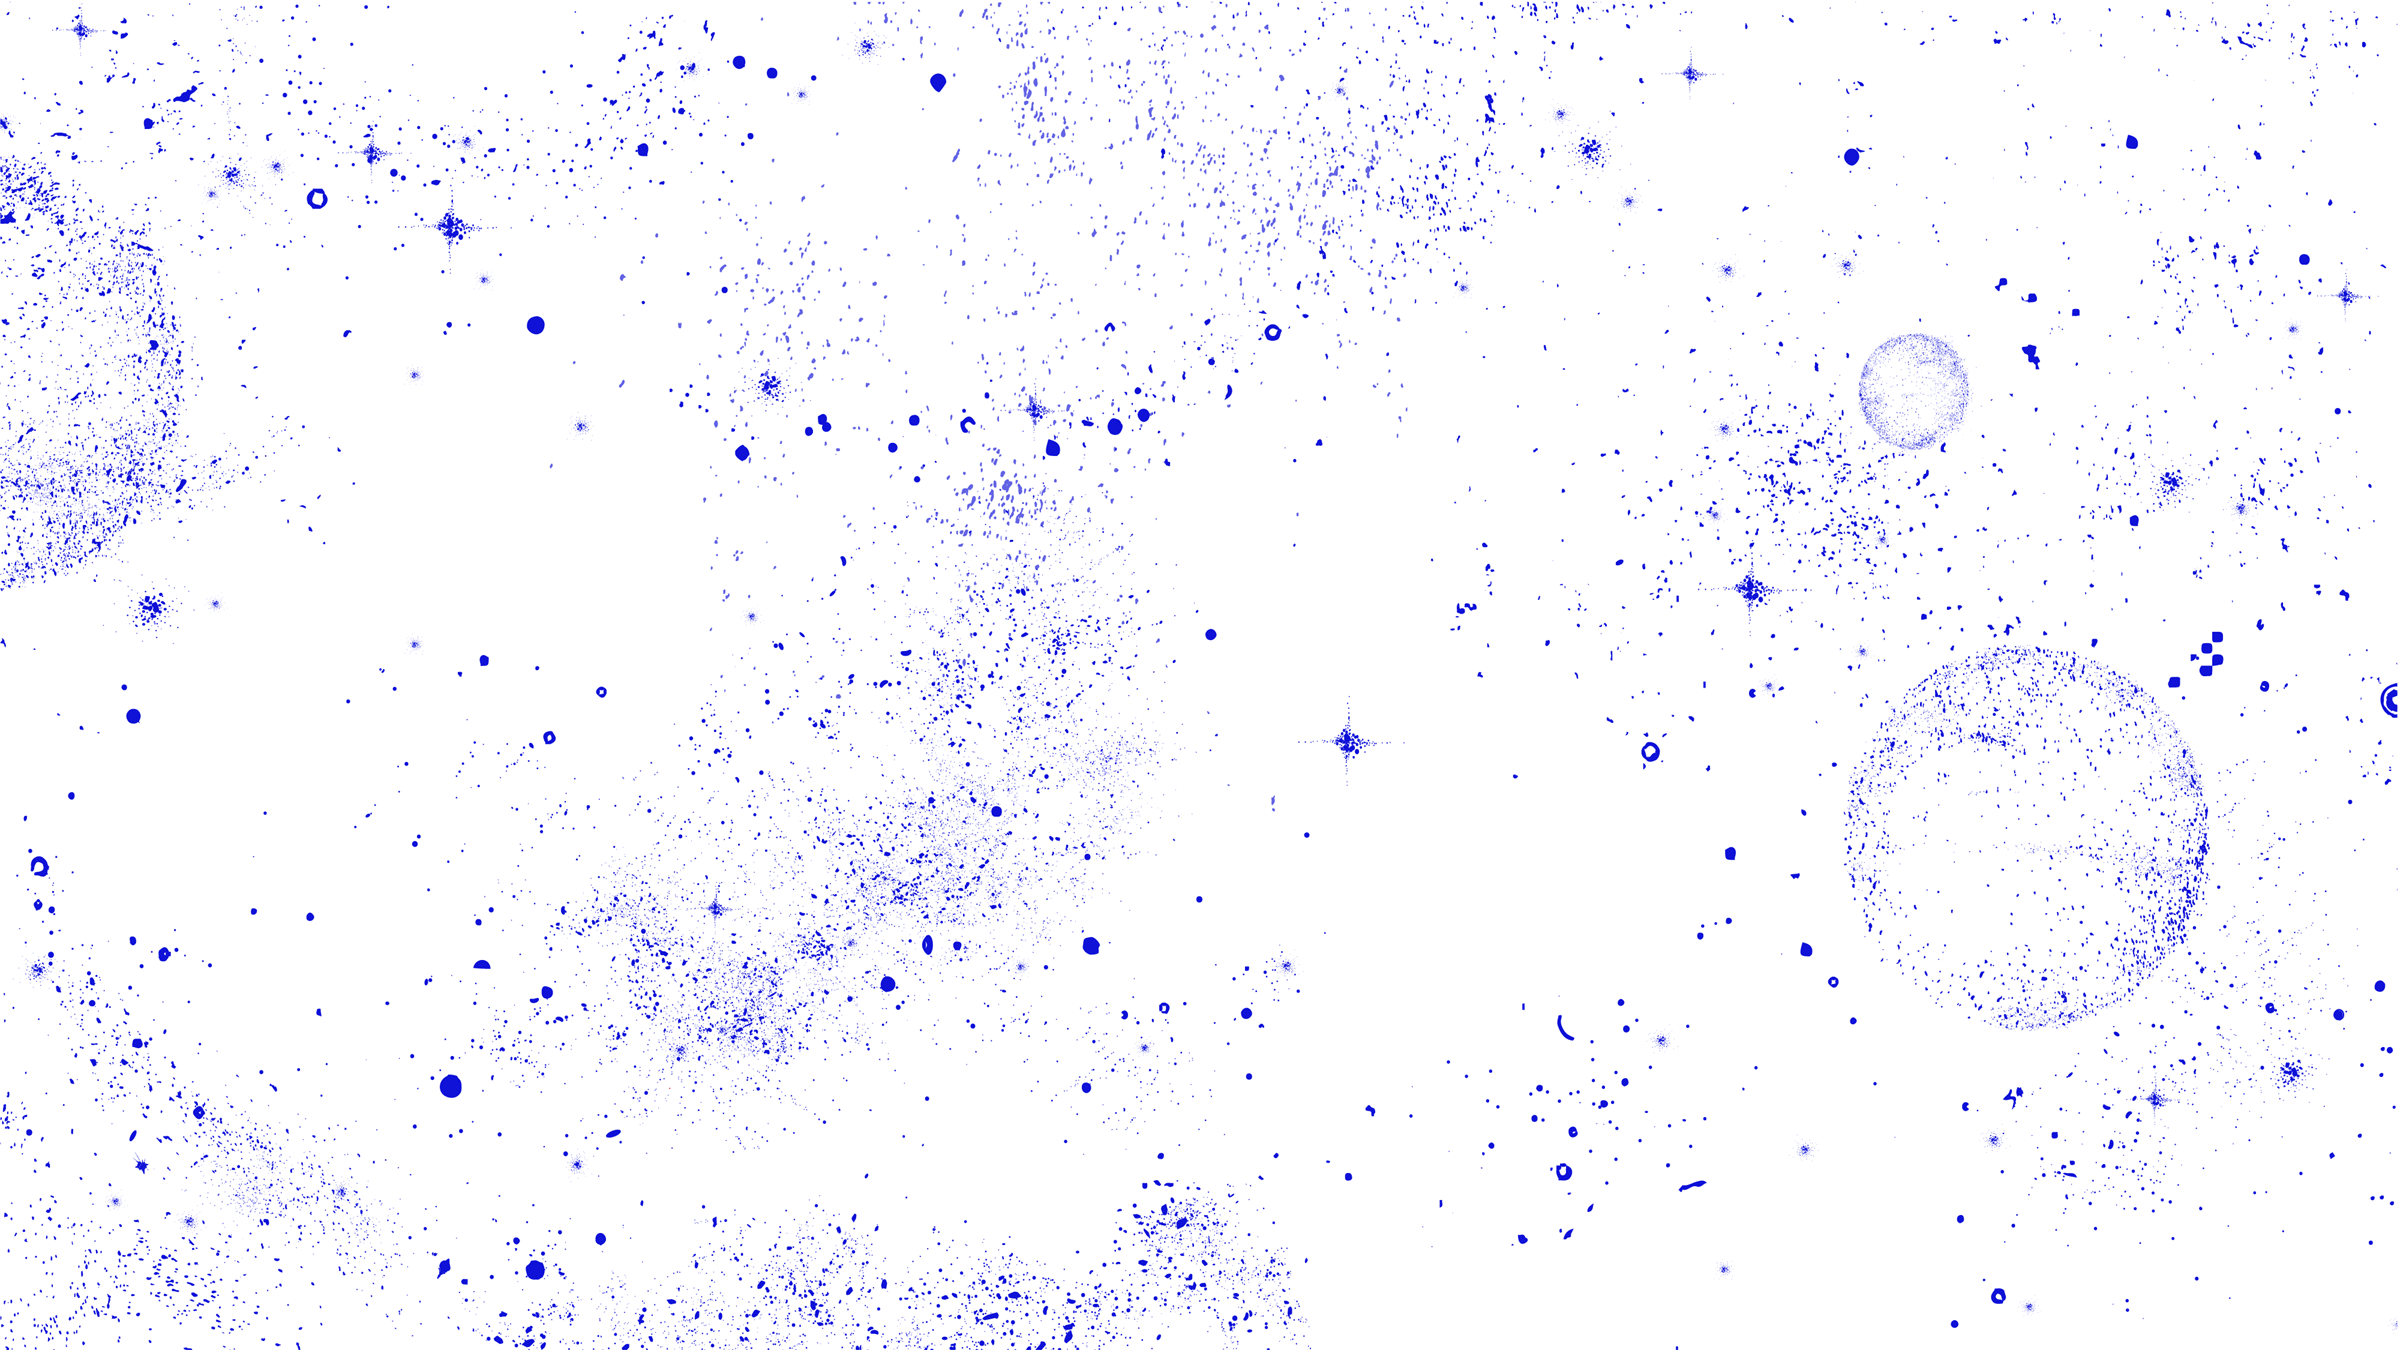
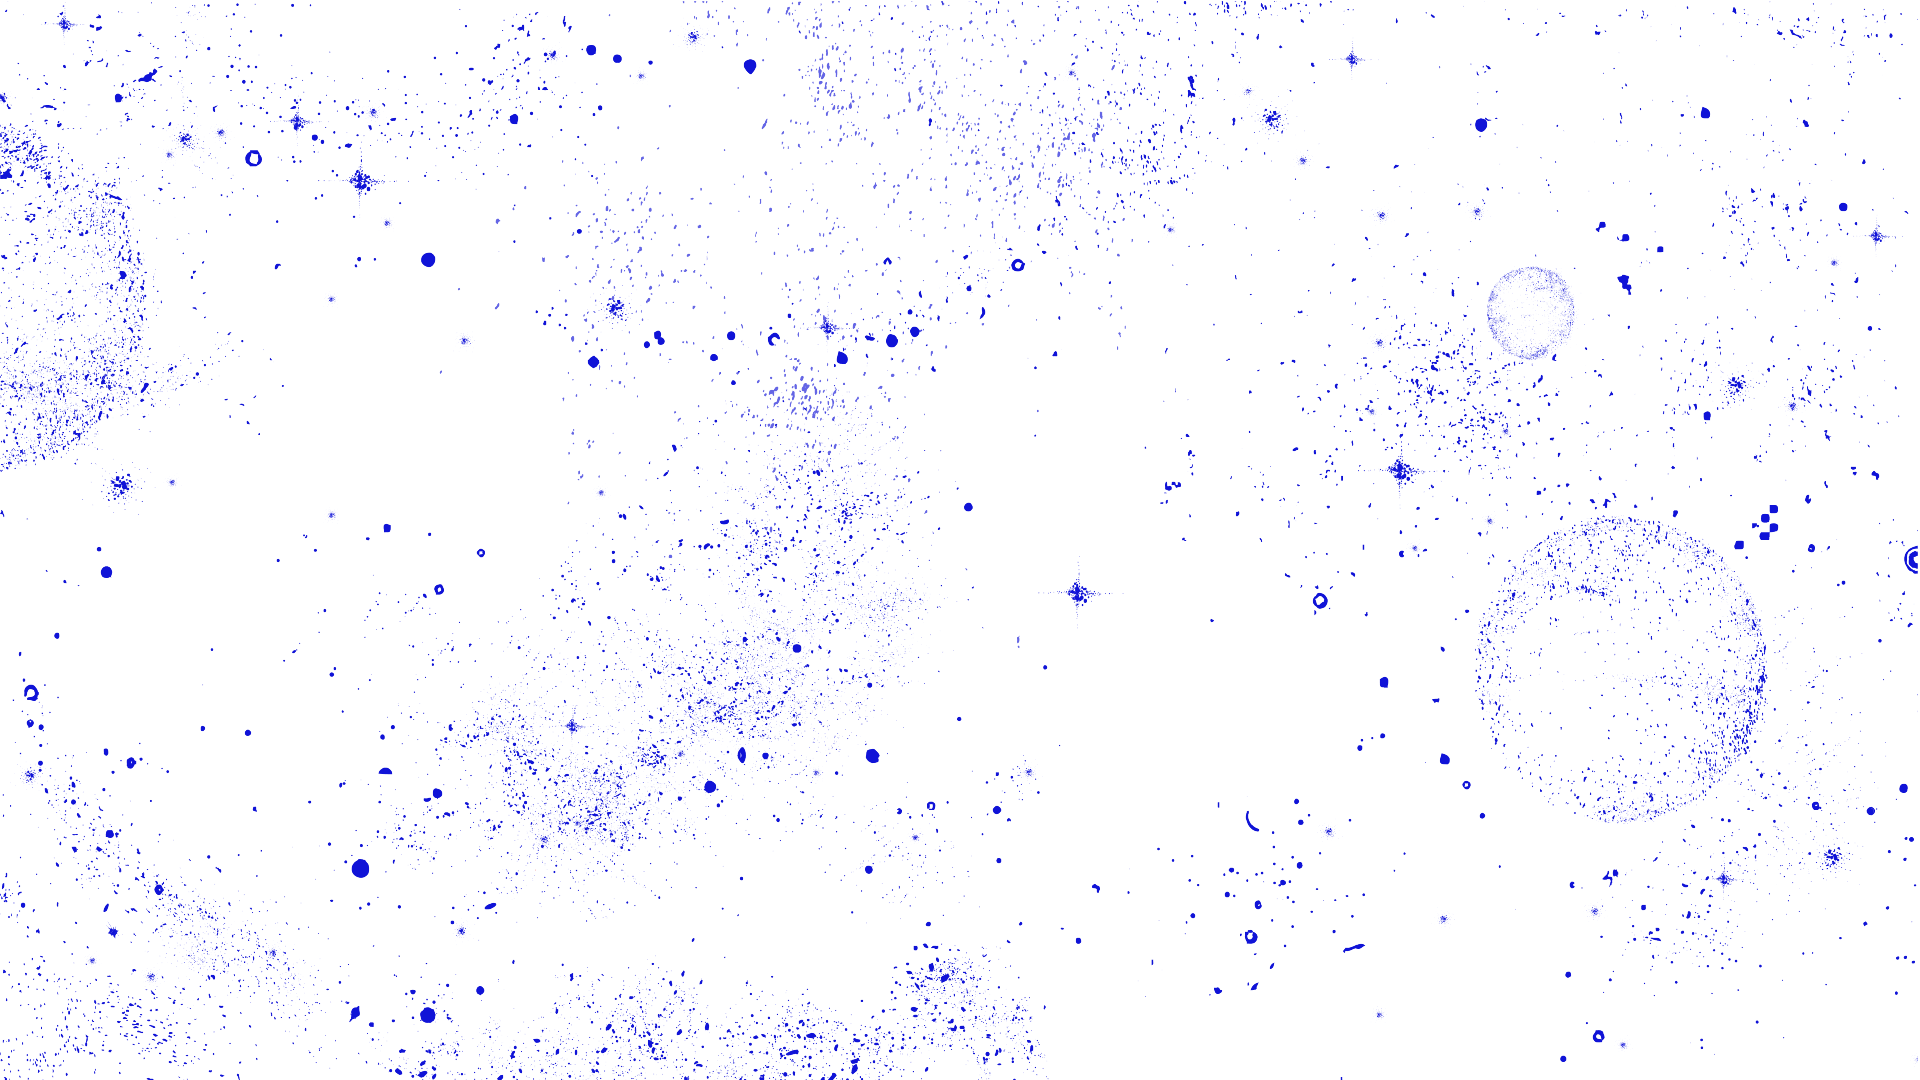
Tenshi: draw only the parts of each layer that hold pixels
Most layers are 90-99% empty, yet each frame blended every transparent
pixel of all of them. Each layer is now measured once and cut into the
boxes that actually hold pixels (keeping a few px of transparent margin so
edge filtering is unchanged), and a frame draws only those. The layer
images are resized to 1920x1080 to match.

diff --git a/tenshi/index.html b/tenshi/index.html
@@ -139,24 +139,123 @@ function loadAll() {
   })));
 }
 
+/* Most layers are 90–99% empty, yet a full-screen draw blends every one of
+   those transparent pixels, 13 layers deep, every frame. Each layer is
+   measured once and cut into the boxes that actually hold pixels; a frame
+   draws only those (blit). Cuts run only through fully transparent gaps and
+   keep CUT_PAD px of empty margin, so edge filtering sees the same
+   transparent neighbours and the picture is unchanged. Until a layer is
+   measured — or where cutting would not pay — it is drawn whole as before. */
+const pieces = {};                       // key → [{sx, sy, sw, sh, bm}] in picture px
+const CUT_GAP = 32, CUT_PAD = 8, CUT_MIN = .85, CUT_MAX = 48;
+const NO_CUT = { background: 1, tenshitext2: 1 };   // opaque / drawn column by column
+function runsOf(occ, gap) {
+  const out = [];
+  let a = -1, last = -1;
+  for (let i = 0; i < occ.length; i++) {
+    if (!occ[i]) continue;
+    if (a < 0) a = i;
+    else if (i - last > gap) { out.push([a, last]); a = i; }
+    last = i;
+  }
+  if (a >= 0) out.push([a, last]);
+  return out;
+}
+function measure(im) {
+  const w = im.naturalWidth, h = im.naturalHeight;
+  const m = document.createElement('canvas'); m.width = w; m.height = h;
+  const g = m.getContext('2d', { willReadFrequently: true });
+  g.drawImage(im, 0, 0);
+  let A;
+  try { A = g.getImageData(0, 0, w, h).data; } catch (_) { return null; }   // file:// taints the canvas
+  m.width = m.height = 0;
+  // alternate column / row cuts inside each box until nothing splits further
+  const boxes = [];
+  // prevTight: the other axis already failed to split this box
+  (function cut(x0, x1, y0, y1, byCol, prevTight) {
+    const n = byCol ? x1 - x0 + 1 : y1 - y0 + 1, occ = new Uint8Array(n);
+    for (let y = y0; y <= y1; y++) {
+      const row = y * w;
+      for (let x = x0; x <= x1; x++) if (A[(row + x) * 4 + 3]) occ[byCol ? x - x0 : y - y0] = 1;
+    }
+    const runs = runsOf(occ, CUT_GAP);
+    if (!runs.length) return;
+    const o = byCol ? x0 : y0;
+    const tight = runs.length === 1 && runs[0][0] === 0 && runs[0][1] === n - 1;
+    if (tight) {
+      if (prevTight) boxes.push([x0, x1, y0, y1]);      // neither axis splits: a finished piece
+      else cut(x0, x1, y0, y1, !byCol, true);
+      return;
+    }
+    for (const [a, b] of runs) {                         // every split shrinks the box, so this ends
+      if (byCol) cut(o + a, o + b, y0, y1, false, false);
+      else cut(x0, x1, o + a, o + b, true, false);
+    }
+  })(0, w - 1, 0, h - 1, true, false);
+  let area = 0;
+  const ps = boxes.map(([x0, x1, y0, y1]) => {
+    const sx = Math.max(0, x0 - CUT_PAD), sy = Math.max(0, y0 - CUT_PAD);
+    const p = { sx, sy, sw: Math.min(w, x1 + 1 + CUT_PAD) - sx, sh: Math.min(h, y1 + 1 + CUT_PAD) - sy, bm: null };
+    area += p.sw * p.sh;
+    return p;
+  });
+  // barely empty, or so scattered that the calls cost more than the pixels: draw it whole
+  return area > w * h * CUT_MIN || ps.length > CUT_MAX ? null : ps;
+}
+async function measureAll() {
+  for (const key of Object.keys(src)) {
+    if (NO_CUT[key.slice(0, -3)] || !src[key].naturalWidth) continue;
+    const ps = measure(src[key]);
+    if (ps) pieces[key] = ps;
+    await new Promise(r => setTimeout(r));   // one layer per task, so frames keep coming
+  }
+  buildBitmaps(true);
+}
+// draws a layer at (x, y) in artwork space — the same as drawImage(img, x, y, IW, IH)
+function blit(c, key, x = 0, y = 0) {
+  const ps = pieces[key];
+  if (!ps || !ps.ready) { c.drawImage(imgs[key], x, y, IW, IH); return; }
+  for (const p of ps) c.drawImage(p.bm, x + p.d[0], y + p.d[1], p.d[2], p.d[3]);
+}
+
 let bitmapW = 0, bitmapJob = 0;
-function buildBitmaps() {
+function buildBitmaps(force) {
   if (!window.createImageBitmap || !Object.keys(src).length) return;
   const w = Math.min(IW, Math.round(IW * k)), h = Math.round(w * IH / IW);
-  if (Math.abs(w - bitmapW) < 8) return;
+  if (!force && Math.abs(w - bitmapW) < 8) return;
   const job = ++bitmapJob;
+  const ax = IW / w, ay = IH / h;                // artwork units per bitmap px
   Promise.all(Object.keys(src).map(key => {
     const im = src[key];
-    if (!im.naturalWidth) return Promise.resolve([key, null]);
-    return createImageBitmap(im, { resizeWidth: w, resizeHeight: h, resizeQuality: 'high' })
-      .then(bm => [key, bm], () => [key, null]);
+    if (!im.naturalWidth) return null;
+    return createImageBitmap(im, { resizeWidth: w, resizeHeight: h, resizeQuality: 'high' }).then(bm => {
+      const ps = pieces[key];
+      if (!ps) return { key, bm };
+      // the pieces are cut out of the resized layer on whole pixels, so they
+      // hold exactly the pixels the whole layer would have drawn
+      const bx = w / im.naturalWidth, by = h / im.naturalHeight;
+      return Promise.all(ps.map(p => {
+        const x0 = Math.max(0, Math.floor(p.sx * bx) - 2), y0 = Math.max(0, Math.floor(p.sy * by) - 2);
+        const x1 = Math.min(w, Math.ceil((p.sx + p.sw) * bx) + 2), y1 = Math.min(h, Math.ceil((p.sy + p.sh) * by) + 2);
+        return createImageBitmap(bm, x0, y0, x1 - x0, y1 - y0)
+          .then(pb => ({ pb, d: [x0 * ax, y0 * ay, (x1 - x0) * ax, (y1 - y0) * ay] }));
+      })).then(cuts => { bm.close(); return { key, cuts }; }, () => ({ key, bm }));
+    }, () => null);
   })).then(list => {
-    if (job !== bitmapJob) { list.forEach(([, bm]) => bm && bm.close && bm.close()); return; }   // a newer size won
-    for (const [key, bm] of list) {
-      if (!bm) continue;
-      const old = imgs[key];
-      imgs[key] = bm;
-      if (old !== src[key] && old.close) old.close();
+    if (job !== bitmapJob) {                     // a newer size won
+      list.forEach(r => { if (!r) return; if (r.bm) r.bm.close(); if (r.cuts) r.cuts.forEach(q => q.pb.close()); });
+      return;
+    }
+    for (const r of list) {
+      if (!r) continue;
+      const old = imgs[r.key];
+      if (r.cuts) {
+        const ps = pieces[r.key];
+        ps.forEach((p, i) => { if (p.bm) p.bm.close(); p.bm = r.cuts[i].pb; p.d = r.cuts[i].d; });
+        ps.ready = true;
+        imgs[r.key] = src[r.key];                // the whole-size copy is no longer drawn
+      } else imgs[r.key] = r.bm;
+      if (old !== src[r.key] && old !== imgs[r.key] && old.close) old.close();
     }
     bitmapW = w;
   });
@@ -253,7 +352,7 @@ let boilSeed = 0, boilT = 0, mosaicOff = [0, 0], mosaicT = 0;
 const rnd = (s) => { const x = Math.sin(s * 127.1) * 43758.5453; return x - Math.floor(x); };
 
 function drawLayer(c, L, v, xr) {
-  const img = imgs[L.n + '-' + v];
+  const key = L.n + '-' + v, img = imgs[key];
   if (!img || !img.width || img.naturalWidth === 0) return;   // an Image still loading, or a broken one
   c.save();
   c.translate(-par.x * L.depth * PAR, -par.y * L.depth * PAR);
@@ -261,45 +360,45 @@ function drawLayer(c, L, v, xr) {
     case 'drip': drawDrip(c, img, xr); c.restore(); return;
     case 'twinkle':
       c.globalAlpha = .78 + .22 * Math.sin(now * 1.7);
-      c.drawImage(img, 0, 0, IW, IH);
+      blit(c, key);
       if (Q.twinkle) {
         c.globalAlpha = .25 + .25 * Math.sin(now * 2.3 + 1);
-        c.drawImage(img, 1.5, -1.5, IW, IH);
+        blit(c, key, 1.5, -1.5);
       }
       break;
     case 'sway':
       c.translate(0, Math.sin(now * .5) * 8);
-      c.drawImage(img, 0, 0, IW, IH); break;
+      blit(c, key); break;
     case 'wobble': {
       const s = 1 + .008 * Math.sin(now * .8);
       c.translate(1200, 900); c.rotate(Math.sin(now * .33) * .004); c.scale(s, 1 + .012 * Math.sin(now * .8 + 1));
       c.translate(-1200, -900 + Math.sin(now * .6) * 6);
-      c.drawImage(img, 0, 0, IW, IH); break;
+      blit(c, key); break;
     }
     case 'shiver':
       c.translate(Math.sin(now * 13) * .8 + (glitch > .2 ? (Math.random() - .5) * 14 * glitch : 0), 0);
-      c.drawImage(img, 0, 0, IW, IH); break;
+      blit(c, key); break;
     case 'breathe': {
       const s = 1 + .01 * Math.sin(now * .45);
       c.translate(1500, 400); c.scale(s, s); c.rotate(Math.sin(now * .3) * .006); c.translate(-1500, -400);
-      c.drawImage(img, 0, 0, IW, IH); break;
+      blit(c, key); break;
     }
     case 'boil': {
       const a = rnd(boilSeed + L.depth * 10) - .5, b = rnd(boilSeed * 1.3 + L.depth) - .5;
       c.translate(a * 3, b * 3);
-      c.drawImage(img, 0, 0, IW, IH); break;
+      blit(c, key); break;
     }
     case 'mosaic':
       c.translate(mosaicOff[0], mosaicOff[1]);
-      c.drawImage(img, 0, 0, IW, IH); break;
+      blit(c, key); break;
     case 'textbox': {
       const p = easeOut(Math.min(1, Math.max(0, (now - 0.6) / 1.8)));
       c.beginPath(); c.rect(0, 0, 330 + 520 * p, IH); c.clip();
       if (textboxFlick > 0 && Math.random() < .5) c.translate((Math.random() - .5) * 10, 0);
-      c.drawImage(img, 0, 0, IW, IH); break;
+      blit(c, key); break;
     }
     default:
-      c.drawImage(img, 0, 0, IW, IH);
+      blit(c, key);
   }
   c.restore();
 }
@@ -975,6 +1074,7 @@ loadAll().then(() => {
   for (let i = 0; i < 6; i++) spawnDrip(Math.random() * IW, .8);
   touchHint();
   requestAnimationFrame(frame);
+  measureAll();                          // in the background; layers switch to pieces as they finish
 });
 })();
 </script>
